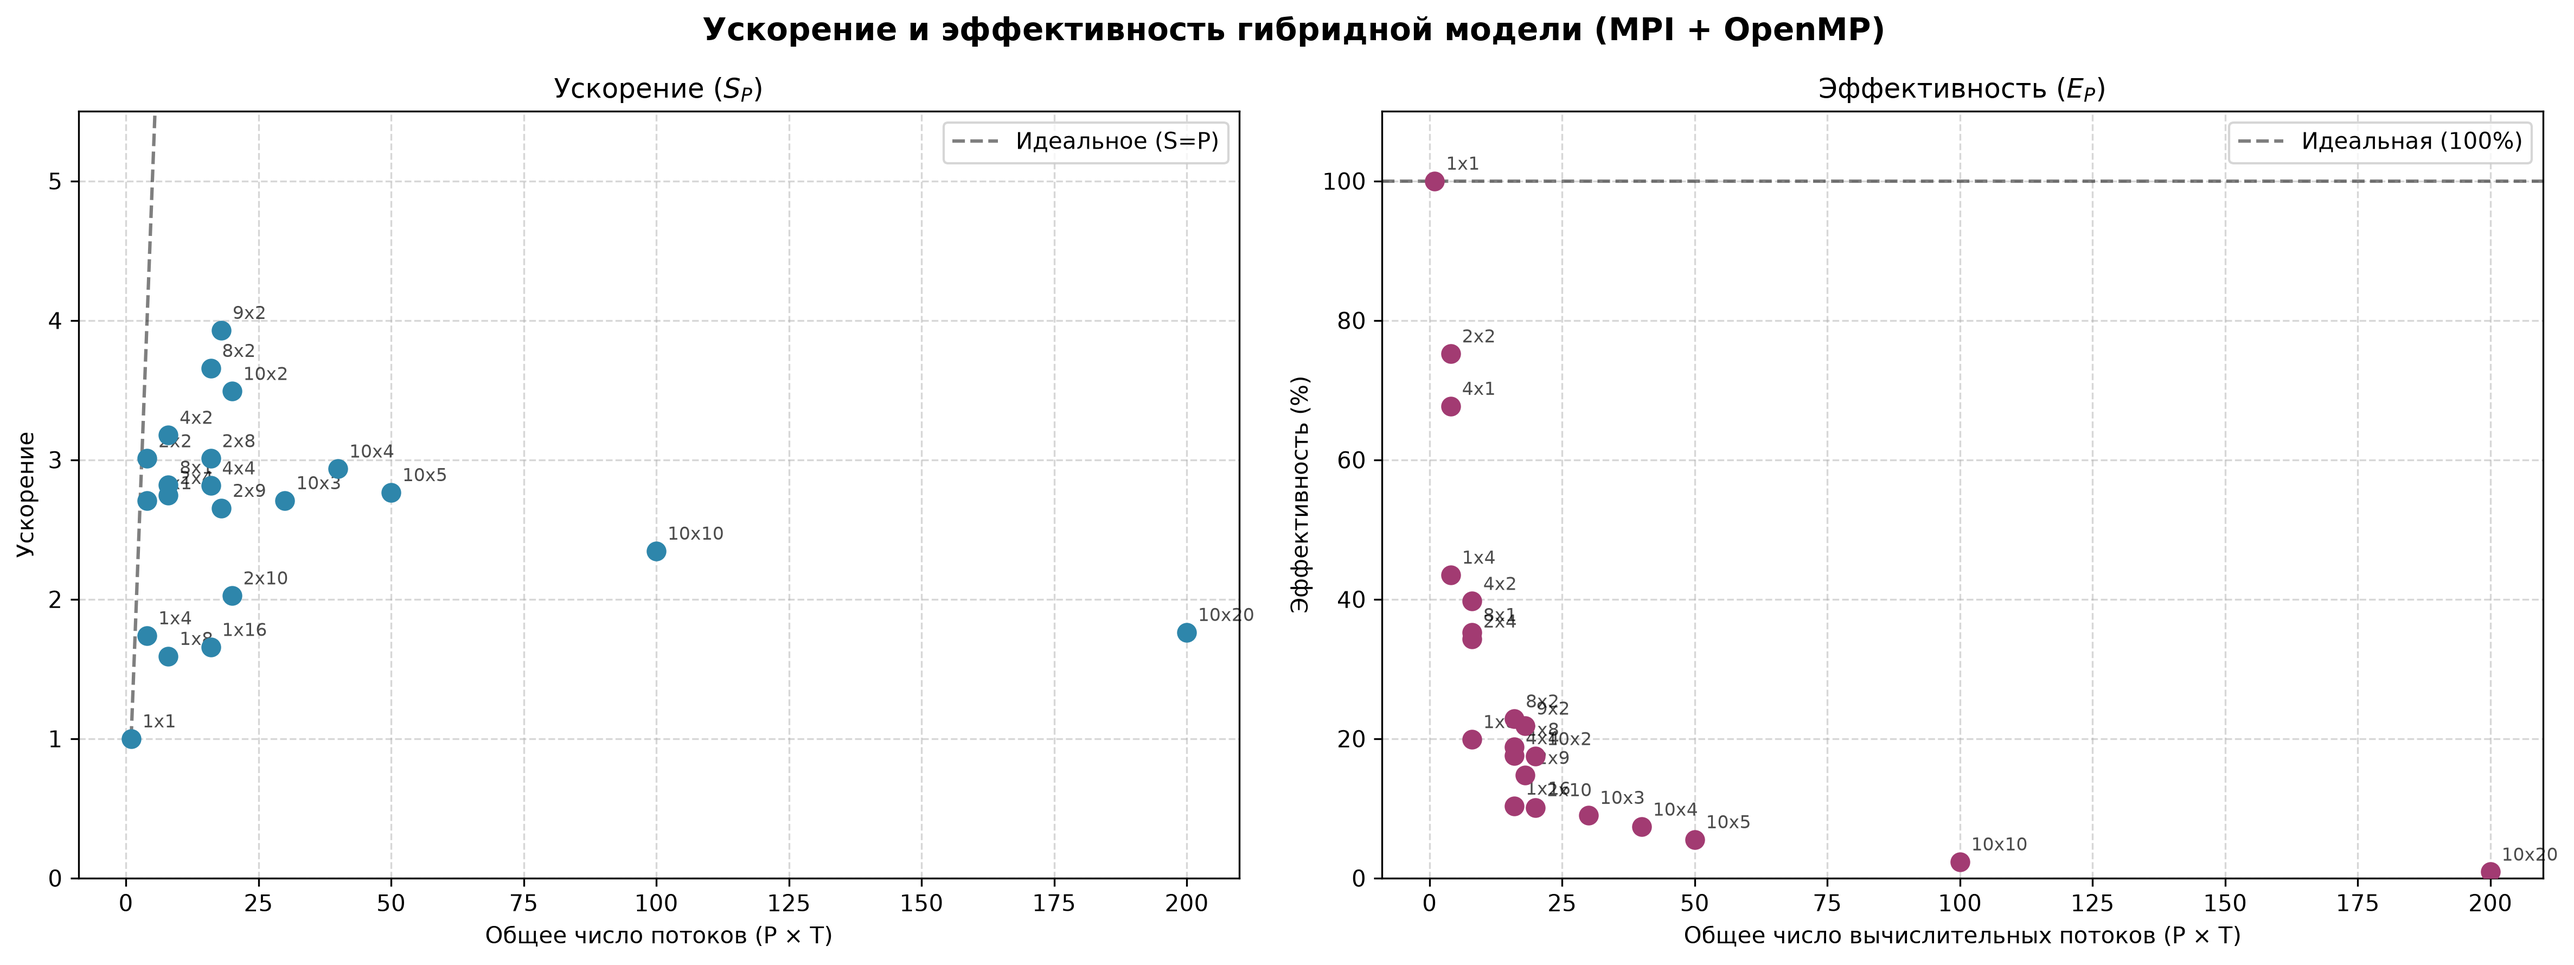
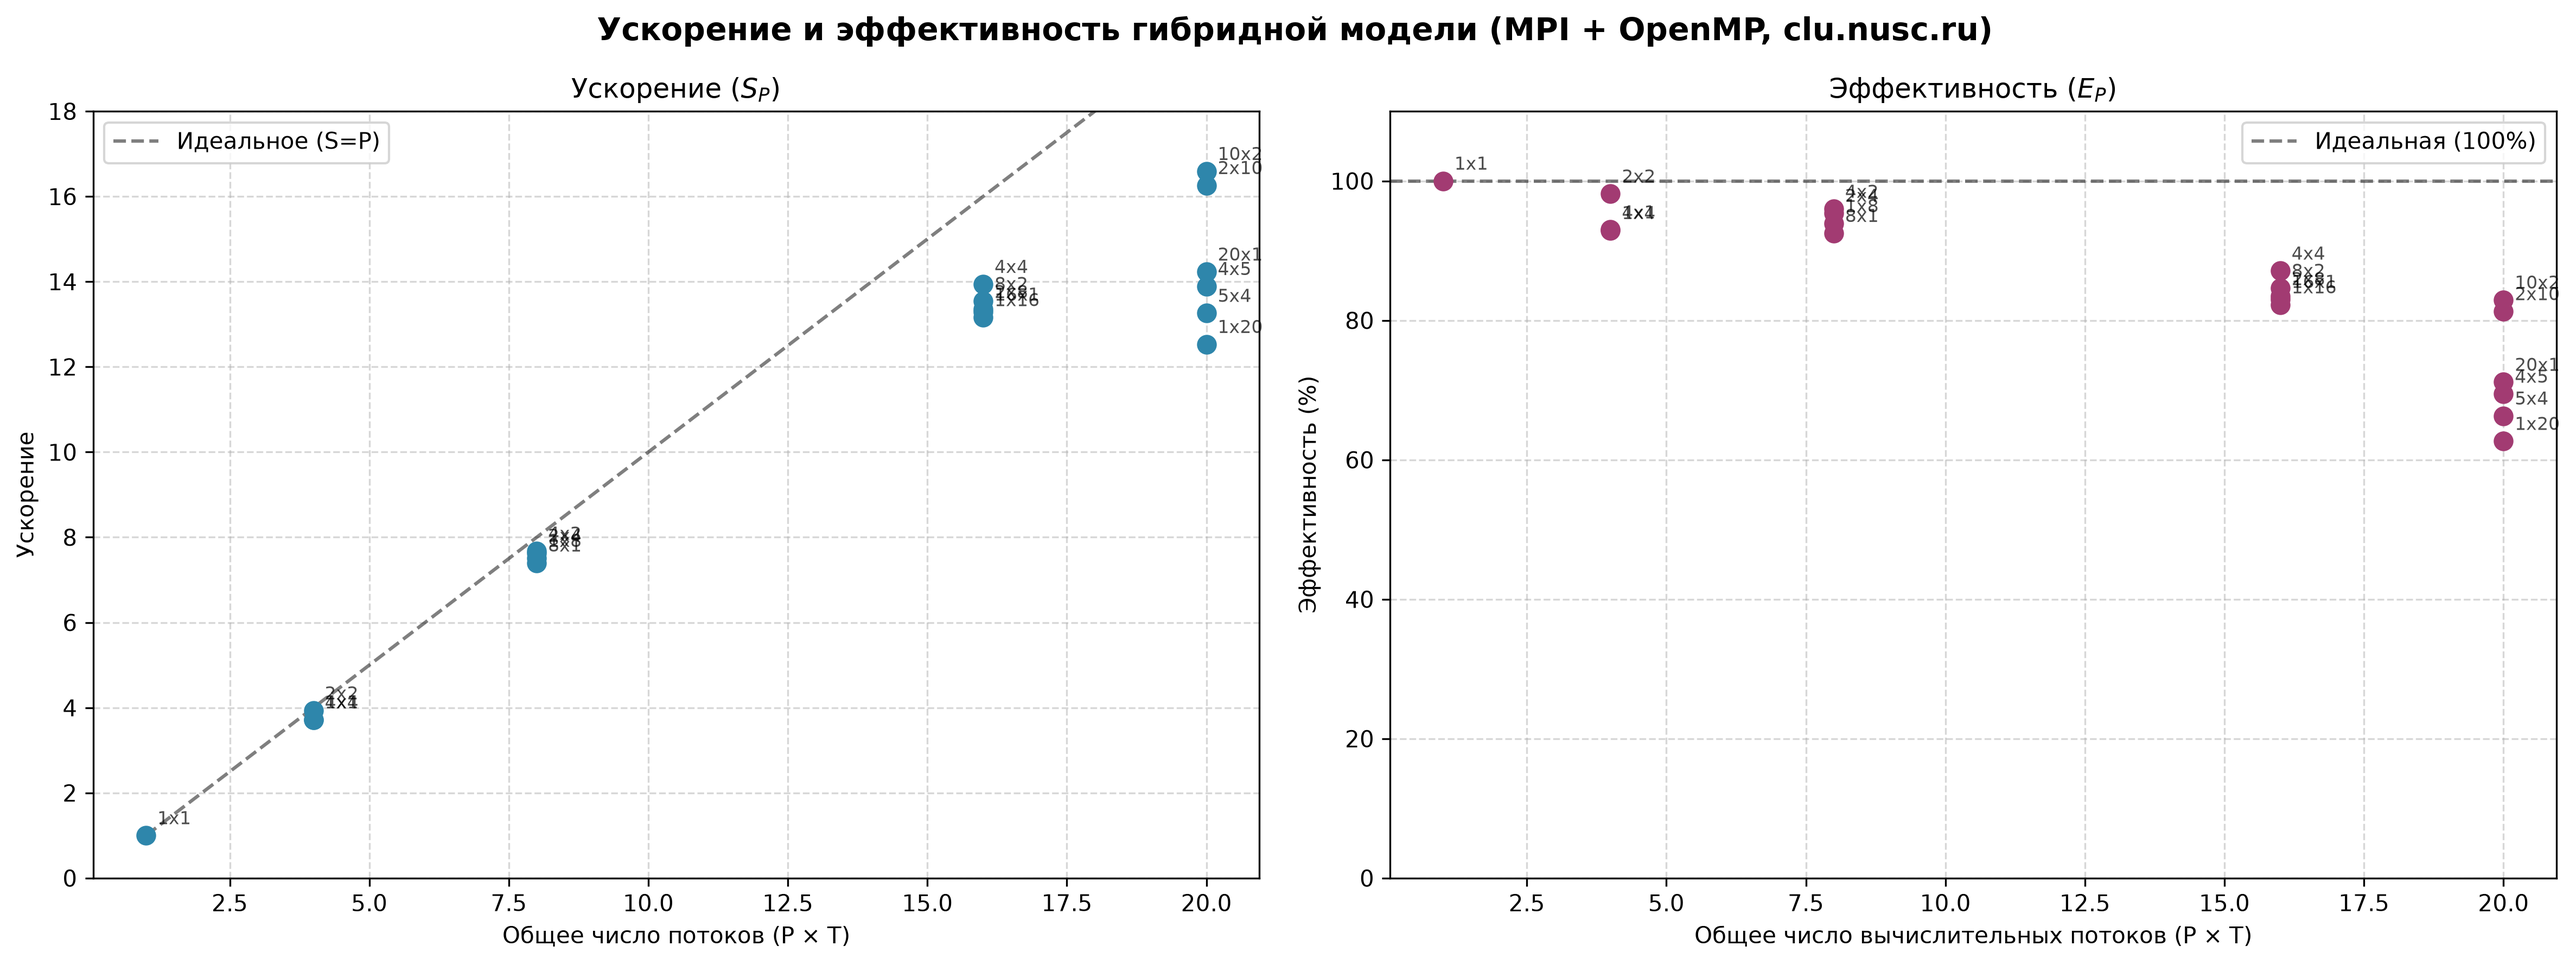
Note: updated visuals for nusc.ru server

diff --git a/Lab_02/visual_scripts/plot_lab2_stats.py b/Lab_02/visual_scripts/plot_lab2_stats.py
@@ -1,0 +1,147 @@
+from typing import Dict
+import os
+import matplotlib.pyplot as plt
+
+plt.rcParams["font.sans-serif"] = ["DejaVu Sans", "Arial"]
+plt.rcParams["axes.unicode_minus"] = False
+plt.rcParams["figure.dpi"] = 150
+plt.rcParams["savefig.dpi"] = 300
+plt.rcParams["axes.grid"] = True
+plt.rcParams["grid.alpha"] = 0.3
+plt.rcParams["grid.linestyle"] = "--"
+
+OUT = "visualisations"
+os.makedirs(OUT, exist_ok=True)
+
+# Базовое время для гибридных расчётов (1x1)
+BASE_TIME_HYBRID = 449.515
+
+# Актуальные измерения, сетка 700 x 700 x 700, clu.nusc.ru
+mpi_procs = [1, 2, 4, 5, 6, 8, 10, 14, 16, 20]
+mpi_time = [447.54, 225.088, 120.327, 97.244, 87.0856, 62.925, 52.8933, 38.7981, 33.8328, 28.386]
+mpi_speedup = [1.00, 1.99, 3.72, 4.60, 5.14, 7.11, 8.46, 11.54, 13.23, 15.77]
+mpi_efficiency = [100.00, 99.41, 92.98, 92.04, 85.65, 88.90, 84.61, 82.39, 82.67, 78.83]
+
+hybrid_configs = ["1x1", "4x1", "2x2", "1x4", "2x4", "4x2", "1x8", "8x1", 
+                  "4x4", "2x8", "8x2", "1x16", "16x1", "10x2", "2x10", "1x20", "20x1", "4x5", "5x4"]
+
+def threads(config: str) -> int:
+    m, t = config.split("x")
+    return int(m) * int(t)
+
+hybrid_threads = [threads(c) for c in hybrid_configs]
+hybrid_time = [449.515, 120.83, 114.488, 120.948, 58.9125, 58.5511, 59.8405, 60.7442, 
+               32.2551, 33.6694, 33.1977, 34.1534, 33.8328, 27.0973, 27.6525, 35.8655, 31.5936, 32.3676, 33.8976]
+hybrid_speedup = [1.00, 3.72, 3.93, 3.72, 7.63, 7.68, 7.51, 7.40, 
+                  13.94, 13.35, 13.54, 13.16, 13.29, 16.59, 16.26, 12.53, 14.23, 13.89, 13.26]
+hybrid_efficiency = [100.0, 93.01, 98.16, 92.91, 95.38, 95.97, 93.90, 92.50, 
+                     87.10, 83.44, 84.63, 82.26, 83.04, 82.94, 81.28, 62.67, 71.14, 69.44, 66.30]
+
+def plot_pure_mpi() -> None:
+    """Графики для чистого MPI"""
+    fig, axes = plt.subplots(1, 3, figsize=(18, 5))
+    fig.suptitle('Производительность при использовании только MPI (Pure MPI, clu.nusc.ru)', fontsize=14, fontweight='bold')
+
+    # 1. Время
+    axes[0].plot(mpi_procs, mpi_time, marker='o', color='#2E86AB', linewidth=2, markersize=8)
+    axes[0].set_title('Время выполнения')
+    axes[0].set_xlabel('Число MPI-процессов (P)')
+    axes[0].set_ylabel('Время (сек)')
+    axes[0].set_xticks(mpi_procs)
+
+    # 2. Ускорение
+    axes[1].plot(mpi_procs, mpi_speedup, marker='s', color='#A23B72', linewidth=2, markersize=8, label='Фактическое ускорение')
+    axes[1].plot(mpi_procs, mpi_procs, 'k--', linewidth=1.5, alpha=0.6, label='Идеальное линейное (S=P)')
+    axes[1].set_title('Ускорение ($S_p$)')
+    axes[1].set_xlabel('Число MPI-процессов (P)')
+    axes[1].set_ylabel('Ускорение (раз)')
+    axes[1].set_xticks(mpi_procs)
+    axes[1].set_ylim(0, 18)
+    axes[1].legend()
+
+    # 3. Эффективность
+    axes[2].plot(mpi_procs, mpi_efficiency, marker='^', color='#F18F01', linewidth=2, markersize=8, label='Фактическая эффективность')
+    axes[2].axhline(100, color='k', linestyle='--', linewidth=1.5, alpha=0.6, label='Идеальная (100%)')
+    axes[2].set_title('Эффективность ($E_p$)')
+    axes[2].set_xlabel('Число MPI-процессов (P)')
+    axes[2].set_ylabel('Эффективность (%)')
+    axes[2].set_xticks(mpi_procs)
+    axes[2].set_ylim(0, 110)
+    axes[2].legend()
+
+    plt.tight_layout()
+    filename: str = f"{OUT}/pure_mpi_metrics.png"
+    plt.savefig(filename, bbox_inches='tight')
+    plt.close()
+    print(f"✓ Сохранен: {filename}")
+
+def plot_hybrid_time() -> None:
+    """График времени для гибридного режима (отсортированный по времени)"""
+    # Собираем и сортируем данные
+    combined = list(zip(hybrid_configs, hybrid_time))
+    combined.sort(key=lambda x: x[1])
+    
+    configs = [x[0] for x in combined]
+    times = [x[1] for x in combined]
+    
+    fig, ax = plt.subplots(figsize=(14, 7))
+    bars = ax.bar(configs, times)
+    
+    # Находим лучший (первый после сортировки)
+    best_config = configs[0]
+    best_time = times[0]
+    best_idx = 0
+    
+    bars[best_idx].set_color("#C73E1D")
+    ax.annotate(f"Оптимум: {best_config} ({best_time:.4f} с)",
+                xy=(best_idx, best_time), xytext=(best_idx, best_time + 2.0),
+                ha="center", arrowprops={"arrowstyle": "->", "color": "#C73E1D"}, fontsize=11, fontweight='bold')
+                
+    ax.set_title('Время выполнения для различных гибридных конфигураций (отсортировано, clu.nusc.ru)', fontsize=14, fontweight='bold')
+    ax.set_xlabel('Конфигурация (MPI-процессы × OpenMP-потоки)', fontsize=12)
+    ax.set_ylabel('Время выполнения (сек)', fontsize=12)
+    ax.tick_params(axis="x", rotation=45)
+    
+    plt.tight_layout()
+    filename: str = f"{OUT}/hybrid_time_sorted.png"
+    plt.savefig(filename, bbox_inches='tight')
+    plt.close()
+    print(f"✓ Сохранен: {filename}")
+
+def plot_hybrid_speedup_efficiency() -> None:
+    """Графики ускорения и эффективности гибридного режима с аннотациями"""
+    fig, ax = plt.subplots(1, 2, figsize=(16, 6))
+    fig.suptitle('Ускорение и эффективность гибридной модели (MPI + OpenMP, clu.nusc.ru)', fontsize=14, fontweight='bold')
+    
+    for i, config in enumerate(hybrid_configs):
+        ax[0].scatter(hybrid_threads[i], hybrid_speedup[i], color='#2E86AB', s=60, zorder=3)
+        ax[0].annotate(config, (hybrid_threads[i], hybrid_speedup[i]),
+                       textcoords="offset points", xytext=(5, 5), fontsize=8, alpha=0.7)
+        ax[1].scatter(hybrid_threads[i], hybrid_efficiency[i], color='#A23B72', s=60, zorder=3)
+        ax[1].annotate(config, (hybrid_threads[i], hybrid_efficiency[i]),
+                       textcoords="offset points", xytext=(5, 5), fontsize=8, alpha=0.7)
+                       
+    ideal_x = sorted(set(hybrid_threads))
+    ax[0].plot(ideal_x, ideal_x, 'k--', linewidth=1.5, alpha=0.5, label='Идеальное (S=P)')
+    ax[0].set(title="Ускорение ($S_P$)", xlabel="Общее число потоков (P × T)", ylabel="Ускорение", ylim=(0, 18))
+    
+    ax[1].axhline(100, color='k', linestyle='--', linewidth=1.5, alpha=0.5, label='Идеальная (100%)')
+    ax[1].set(title="Эффективность ($E_P$)", xlabel="Общее число вычислительных потоков (P × T)",
+              ylabel="Эффективность (%)", ylim=(0, 110))
+              
+    for a in ax:
+        a.legend()
+        a.grid(True, linestyle='--', alpha=0.5)
+        
+    plt.tight_layout()
+    filename: str = f"{OUT}/hybrid_speedup_efficiency.png"
+    plt.savefig(filename, bbox_inches='tight')
+    plt.close()
+    print(f"✓ Сохранен: {filename}")
+
+if __name__ == "__main__":
+    print(f"Базовое время (1x1): {BASE_TIME_HYBRID:.3f} с.")
+    plot_pure_mpi()
+    plot_hybrid_time()
+    plot_hybrid_speedup_efficiency()
+    print("✓ Все графики успешно созданы в папке 'visualisations'!")

diff --git a/Lab_02/visual_scripts/plot_benchmarks2.py b/Lab_02/visual_scripts/plot_benchmarks2.py
@@ -15,33 +15,30 @@ DIRECTORY: str = "visualisations"
 os.makedirs(DIRECTORY, exist_ok=True)
 
 # ==============================================================================
-# НОВЫЕ ДАННЫЕ: Таблица 3 – Pure MPI (размер области 700 x 700 x 700)
+# НОВЫЕ ДАННЫЕ: Сервер clu.nusc.ru, dl560g10, сетка 700 x 700 x 700
 # ==============================================================================
+
+# Таблица 6: Чистый MPI
 data_mpi: Dict[str, List[float]] = {
-    'Processes': [1, 2, 4, 5, 6, 8, 10],
-    'Time': [317.679, 179.244, 117.313, 101.279, 90.2635, 112.668, 113.691],
-    'Speedup': [1.00, 1.77, 2.71, 3.14, 3.52, 2.82, 2.79],
-    'Efficiency': [100.00, 88.50, 67.75, 62.80, 58.66, 35.25, 27.90]
+    'Processes': [1, 2, 4, 5, 6, 8, 10, 14, 16, 20],
+    'Time': [447.54, 225.088, 120.327, 97.244, 87.0856, 62.925, 52.8933, 38.7981, 33.8328, 28.386],
+    'Speedup': [1.00, 1.99, 3.72, 4.60, 5.14, 7.11, 8.46, 11.54, 13.23, 15.77],
+    'Efficiency': [100.00, 99.41, 92.98, 92.04, 85.65, 88.90, 84.61, 82.39, 82.67, 78.83]
 }
 df_mpi: pd.DataFrame = pd.DataFrame(data_mpi)
 
-# ==============================================================================
-# НОВЫЕ ДАННЫЕ: Таблица 4 – Гибридный режим (MPI x OpenMP, 700 x 700 x 700)
-# ==============================================================================
+# Таблица 7: Гибридный режим (MPI x OpenMP)
 data_hybrid: Dict[str, List[Any]] = {
-    'Config': ["1x1", "4x1", "2x2", "1x4", "2x4", "4x2", "1x8", "8x1",
-               "4x4", "2x8", "8x2", "1x16", "9x2", "2x9", "10x2", "2x10",
-               "10x3", "10x4", "10x5", "10x10", "10x20"],
-    'Total_Threads': [1, 4, 4, 4, 8, 8, 8, 8, 16, 16, 16, 16, 18, 18, 20, 20, 30, 40, 50, 100, 200],
-    'Time': [317.679, 117.313, 105.58, 182.647, 115.697, 99.9782, 199.593, 112.668,
-             112.872, 105.558, 86.8708, 191.861, 80.8495, 119.733, 90.986, 156.838,
-             117.312, 108.226, 114.849, 135.400, 180.174],
-    'Speedup': [1.00, 2.71, 3.01, 1.74, 2.75, 3.18, 1.59, 2.82,
-                2.81, 3.01, 3.66, 1.66, 3.93, 2.65, 3.49, 2.025,
-                2.71, 2.94, 2.77, 2.35, 1.76],
-    'Efficiency': [100.0, 67.70, 75.22, 43.48, 34.32, 39.72, 19.90, 35.25,
-                   17.59, 18.81, 22.86, 10.35, 21.83, 14.74, 17.46, 10.13,
-                   9.03, 7.34, 5.53, 2.35, 0.88]
+    'Config': ["1x1", "4x1", "2x2", "1x4", "2x4", "4x2", "1x8", "8x1", 
+               "4x4", "2x8", "8x2", "1x16", "16x1", "10x2", "2x10", "1x20", "20x1", "4x5", "5x4"],
+    'Total_Threads': [1, 4, 4, 4, 8, 8, 8, 8, 
+                      16, 16, 16, 16, 16, 20, 20, 20, 20, 20, 20],
+    'Time': [449.515, 120.83, 114.488, 120.948, 58.9125, 58.5511, 59.8405, 60.7442, 
+             32.2551, 33.6694, 33.1977, 34.1534, 33.8328, 27.0973, 27.6525, 35.8655, 31.5936, 32.3676, 33.8976],
+    'Speedup': [1.00, 3.72, 3.93, 3.72, 7.63, 7.68, 7.51, 7.40, 
+                13.94, 13.35, 13.54, 13.16, 13.29, 16.59, 16.26, 12.53, 14.23, 13.89, 13.26],
+    'Efficiency': [100.0, 93.01, 98.16, 92.91, 95.38, 95.97, 93.90, 92.50, 
+                   87.10, 83.44, 84.63, 82.26, 83.04, 82.94, 81.28, 62.67, 71.14, 69.44, 66.30]
 }
 df_hybrid: pd.DataFrame = pd.DataFrame(data_hybrid)
 df_hybrid_sorted: pd.DataFrame = df_hybrid.sort_values(by='Time').reset_index(drop=True)
@@ -129,7 +126,7 @@ def plot_hybrid_metrics_seaborn() -> None:
     axes[0].set_xlabel('Общее число вычислительных потоков (P × T)')
     axes[0].set_ylabel('Ускорение (раз)')
 
-    axes[0].set_ylim(0, 5.5)
+    axes[0].set_ylim(0, 20)
 
     # Аннотации для ускорения
     for i, row in df_hybrid.iterrows():
